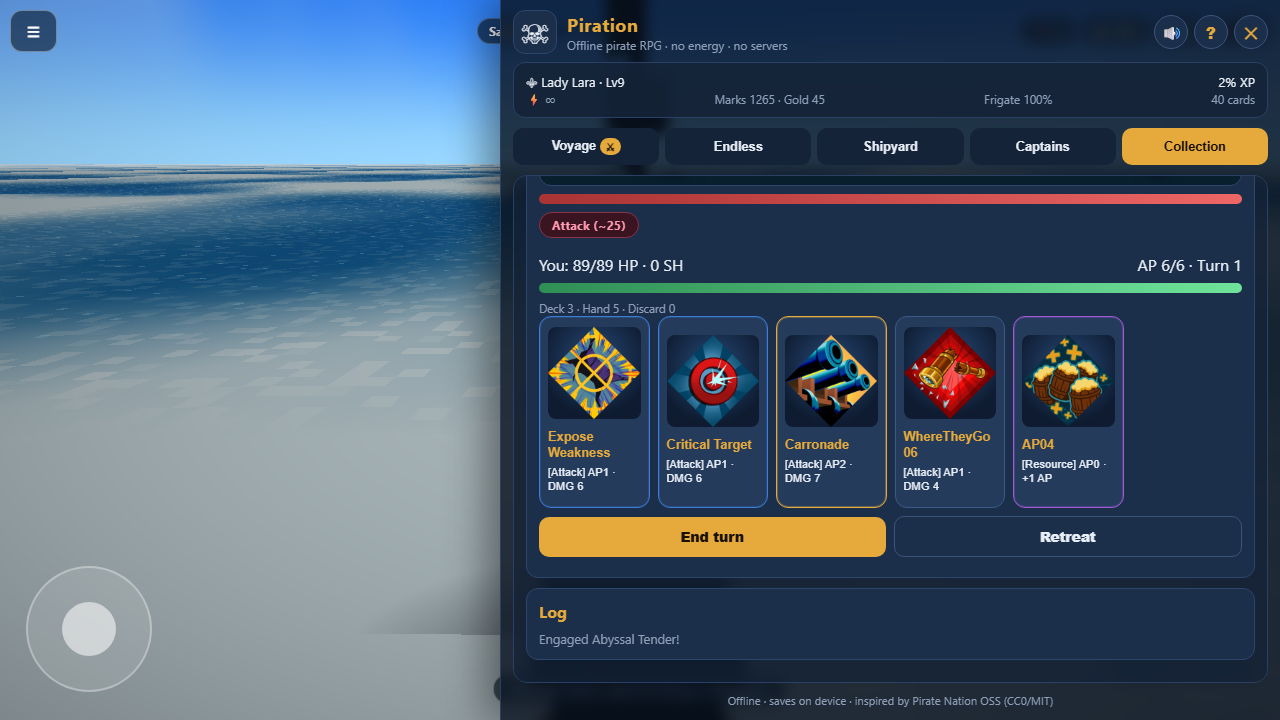
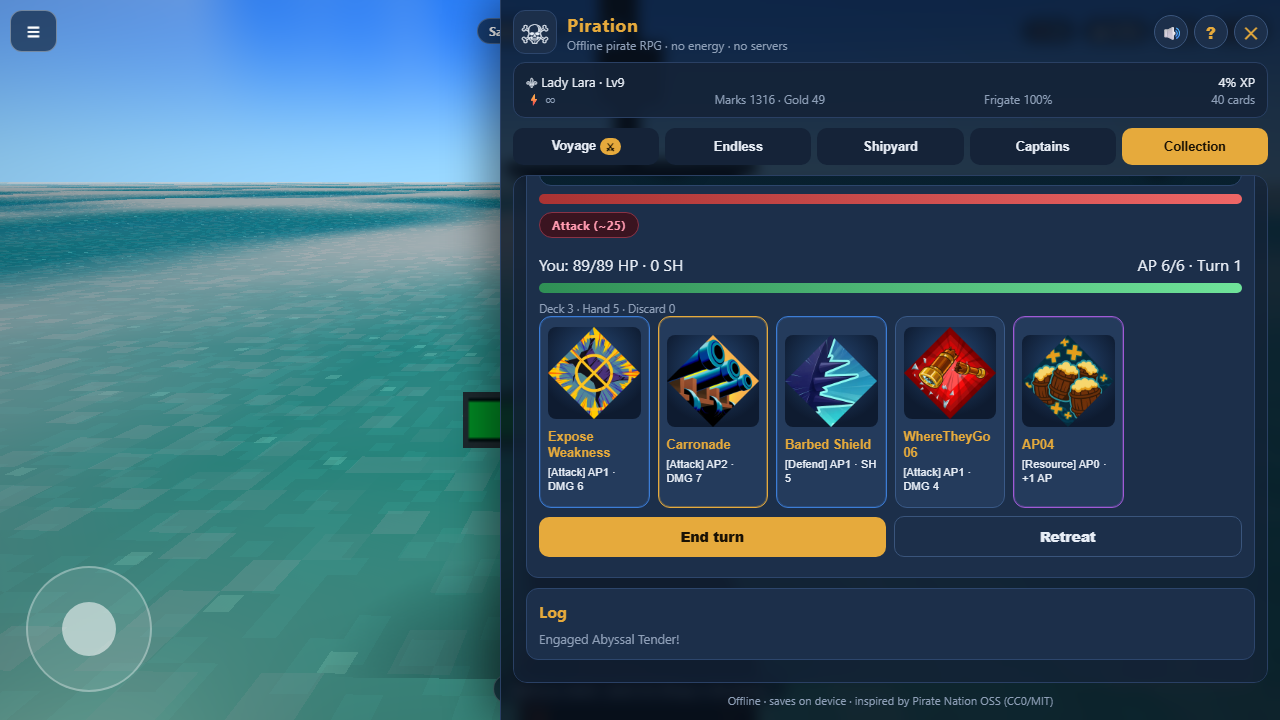
Immersion pass 3: lagoon ocean depth, storm horizon, battle telegraphs, beach palms
- Ocean now shades from turquoise lagoons near islands to deep open sea,
  with moving caustic shimmer and a stronger sun-glitter path
- Distant storm cell on the horizon: dark cloud cluster with random
  lightning flashes for a living sky
- Battle: enemy telegraphs with a red ring before attacking (blue when
  bracing), in-world HP bars above both ships
- Beach palms (rotated-box instanced trees) line the shorelines
- Saturation up to 0.61; full verify-all CLEAN; sim 20.3h

diff --git a/android/www/js/world3d.js b/android/www/js/world3d.js
@@ -159,6 +159,7 @@ export class PirationWorld {
     this.battle = null;
     this.projectiles = [];
     this.fxSprites = [];
+    this.fxCount = 0;
     this.shake = { t: 0, dur: 0, amp: 0 };
     this.fxTex = makeRadialTexture("#ffffff", "#ffffff00");
     this.ringTex = makeRingTexture();
@@ -212,6 +213,7 @@ export class PirationWorld {
     this.buildAIShips();
     this.buildShadows();
     this.buildGulls();
+    this.buildStorm();
     this.bindInput();
     this.resize();
     window.addEventListener("resize", () => this.resize());
@@ -297,6 +299,7 @@ export class PirationWorld {
     if (!active) {
       if (this.battle) {
         this.scene.remove(this.battle.mesh);
+        if (this.battle.playerBar) this.ship.remove(this.battle.playerBar);
         if (this.battleShadow) this.scene.remove(this.battleShadow);
         this.battle = null;
         this.battleShadow = null;
@@ -325,6 +328,31 @@ export class PirationWorld {
     this.scene.add(shadow);
     this.battle = { mesh, basePos: pos.clone(), t: 0, shake: { t: 0, dur: 0, amp: 0 } };
     this.battleShadow = shadow;
+    const barMat = (pct, color) =>
+      new THREE.SpriteMaterial({ map: makeBarTexture(pct, color), transparent: true, depthWrite: false });
+    const enemyBar = new THREE.Sprite(barMat(1, "#ff5a5a"));
+    enemyBar.scale.set(3.4, 0.55, 1);
+    enemyBar.position.set(0, 4.6, 0);
+    this.battle.mesh.add(enemyBar);
+    this.battle.enemyBar = enemyBar;
+    const playerBar = new THREE.Sprite(barMat(1, "#4fbf78"));
+    playerBar.scale.set(3.4, 0.55, 1);
+    playerBar.position.set(0, 3.2, 0);
+    this.ship.add(playerBar);
+    this.battle.playerBar = playerBar;
+  }
+
+  setBattleHp(playerPct, enemyPct) {
+    if (!this.battle) return;
+    const b = this.battle;
+    if (Math.abs((b.ePct ?? 1) - enemyPct) > 0.02) {
+      b.ePct = enemyPct;
+      if (b.enemyBar) b.enemyBar.material.map = makeBarTexture(enemyPct, "#ff5a5a");
+    }
+    if (Math.abs((b.pPct ?? 1) - playerPct) > 0.02) {
+      b.pPct = playerPct;
+      if (b.playerBar) b.playerBar.material.map = makeBarTexture(playerPct, "#4fbf78");
+    }
   }
 
   fxCard(kind, payload) {
@@ -363,6 +391,9 @@ export class PirationWorld {
       this.spawnFxSprite(this.ringTex, this.ship.position.clone().setY(1.2), 2.2, 0.5);
     } else if (kind === "enemyShield") {
       this.spawnFxSprite(this.ringTex, this.battle.mesh.position.clone().setY(2.0), 3.0, 0.55);
+    } else if (kind === "enemyTelegraph") {
+      const r = makeRingTexture("rgba(255, 110, 90, 0.95)");
+      this.spawnFxSprite(r, this.battle.mesh.position.clone().setY(2.0), 3.2, 0.7);
     } else if (kind === "heal") {
       this.spawnFxSprite(this.sparkTex, this.ship.position.clone().setY(1.6), 1.6, 0.5);
     }
@@ -393,6 +424,7 @@ export class PirationWorld {
   }
 
   spawnFxSprite(tex, pos, size, life, additive = false, vel = null) {
+    this.fxCount += 1;
     const mat = new THREE.SpriteMaterial({
       map: tex,
       transparent: true,
@@ -500,8 +532,9 @@ export class PirationWorld {
       side: THREE.DoubleSide,
       uniforms: {
         uTime: { value: 0 },
-        uDeep: { value: new THREE.Color(0x0b6fa8) },
-        uShallow: { value: new THREE.Color(0x26c9bd) },
+        uOpen: { value: new THREE.Color(0x0a4f86) },
+        uLagoon: { value: new THREE.Color(0x2ed0bf) },
+        uShallow: { value: new THREE.Color(0x35d9c8) },
         uSky: { value: new THREE.Color(0xa8d8ff) },
         uSun: { value: new THREE.Vector3(0.55, 0.62, 0.36).normalize() },
         uIslands: { value: islandUniforms },
@@ -511,7 +544,7 @@ export class PirationWorld {
       },
       vertexShader: `
         uniform float uTime; uniform vec4 uIslands[8];
-        varying vec3 vWorld; varying vec3 vNormal; varying float vFoam;
+        varying vec3 vWorld; varying vec3 vNormal; varying float vFoam; varying float vShore;
         float wave(vec2 p, float t){
           return 0.42*sin(dot(vec2(0.9,0.4), p)*0.055 + t*1.3)
                + 0.30*sin(dot(vec2(-0.6,0.8), p)*0.075 + t*1.7)
@@ -551,23 +584,30 @@ export class PirationWorld {
           rMin = min(rMin, uIslands[4].z); rMin = min(rMin, uIslands[5].z);
           rMin = min(rMin, uIslands[6].z); rMin = min(rMin, uIslands[7].z);
           vFoam = smoothstep(rMin + 8.5, rMin + 2.0, shore) * smoothstep(0.35, 1.4, w + 0.9);
+          vShore = shore;
           gl_Position = projectionMatrix * viewMatrix * wp;
         }`,
       fragmentShader: `
-        uniform vec3 uDeep; uniform vec3 uShallow; uniform vec3 uSky; uniform vec3 uSun; uniform float uTime;
+        uniform vec3 uOpen; uniform vec3 uLagoon; uniform vec3 uShallow; uniform vec3 uSky; uniform vec3 uSun; uniform float uTime;
         uniform sampler2D uShadowMap; uniform mat4 uShadowMatrix; uniform float uShadowBias;
-        varying vec3 vWorld; varying vec3 vNormal; varying float vFoam;
+        varying vec3 vWorld; varying vec3 vNormal; varying float vFoam; varying float vShore;
         float hash(vec2 p){ return fract(sin(dot(p, vec2(12.9898, 78.233))) * 43758.5453); }
         void main(){
           vec3 n = normalize(vNormal);
           vec3 view = normalize(cameraPosition - vWorld);
           float fres = pow(1.0 - max(dot(view, n), 0.0), 3.0);
-          vec3 base = mix(uDeep, uShallow, clamp(vWorld.y * 0.18 + 0.35, 0.0, 1.0));
+          // lagoon near islands -> deep open sea
+          float depthF = smoothstep(16.0, 280.0, vShore);
+          vec3 base = mix(uLagoon, uOpen, depthF);
+          base = mix(base, uShallow, clamp(vWorld.y * 0.14 + 0.2, 0.0, 1.0) * (1.0 - depthF * 0.6));
           vec3 c = mix(base, uSky, fres * 0.55);
-          // sun glitter
-          float spec = pow(max(dot(reflect(-view, n), uSun), 0.0), 70.0);
+          // caustic shimmer
+          float caustic = step(0.68, hash(floor(vWorld.xz * 2.4 + vec2(uTime * 0.22, -uTime * 0.14))));
+          c += vec3(0.12, 0.32, 0.3) * caustic * 0.16 * (1.0 - depthF * 0.6);
+          // sun glitter path
+          float spec = pow(max(dot(reflect(-view, n), uSun), 0.0), 60.0);
           float sparkle = step(0.985, hash(floor(vWorld.xz * 3.0) + floor(uTime * 6.0)));
-          c += vec3(1.0, 0.96, 0.82) * (spec * 0.85 + sparkle * 0.18);
+          c += vec3(1.0, 0.96, 0.82) * (spec * 1.1 + sparkle * 0.18);
           // foam
           float waveFoam = smoothstep(0.62, 0.86, hash(floor(vWorld.xz * 1.4)));
           float foam = clamp(vFoam + waveFoam * 0.12, 0.0, 1.0);
@@ -824,6 +864,37 @@ export class PirationWorld {
       this.scene.add(rocks);
     }
 
+    // beach palms (decorative instanced layer)
+    const palmItems = [];
+    const palmCount = def.id === "hub" ? 3 : 4 + Math.floor(rng() * 3);
+    for (let i = 0; i < palmCount; i++) {
+      tryPlace((x, z, h) => {
+        if (h < 1.5) {
+          palmItems.push({
+            x: def.pos[0] + x,
+            z: def.pos[1] + z,
+            h,
+            rot: rng() * Math.PI * 2,
+            s: 0.9 + rng() * 0.5,
+          });
+        }
+      }, 80);
+    }
+    if (palmItems.length) {
+      const palmGeo = makeMergedBoxes(PALM_BOXES);
+      const palms = new THREE.InstancedMesh(palmGeo, vcMat, palmItems.length);
+      for (let i = 0; i < palmItems.length; i++) {
+        dummy.position.set(palmItems[i].x, palmItems[i].h + 0.05, palmItems[i].z);
+        dummy.rotation.set(0, palmItems[i].rot, 0);
+        dummy.scale.setScalar(palmItems[i].s);
+        dummy.updateMatrix();
+        palms.setMatrixAt(i, dummy.matrix);
+      }
+      palms.instanceMatrix.needsUpdate = true;
+      palms.castShadow = true;
+      this.scene.add(palms);
+    }
+
     // hub buildings + merged dock planks
     if (def.id === "hub") {
       const sw = this.models.prop_shipwright.clone(true);
@@ -939,6 +1010,62 @@ export class PirationWorld {
       };
       this.scene.add(s);
       this.gulls.push(s);
+    }
+  }
+
+  buildStorm() {
+    const cloudTex = makeStormCloudTexture();
+    const flashTex = makeRadialTexture("#ffffff", "#ffffff00");
+    this.storm = { clouds: [], flash: null, t: 2 + Math.random() * 3 };
+    const a = 2.35;
+    const cx = Math.cos(a) * 660;
+    const cz = Math.sin(a) * 660;
+    for (let i = 0; i < 7; i++) {
+      const s = new THREE.Sprite(
+        new THREE.SpriteMaterial({ map: cloudTex, transparent: true, depthWrite: false, opacity: 0.72 }),
+      );
+      const ox = (Math.random() - 0.5) * 190;
+      const oz = (Math.random() - 0.5) * 190;
+      s.position.set(cx + ox, 105 + Math.random() * 90, cz + oz);
+      const sc = 140 + Math.random() * 100;
+      s.scale.set(sc, sc * 0.55, 1);
+      s.userData = { speed: 0.8 + Math.random() };
+      this.scene.add(s);
+      this.storm.clouds.push(s);
+    }
+    const fl = new THREE.Sprite(
+      new THREE.SpriteMaterial({
+        map: flashTex,
+        transparent: true,
+        blending: THREE.AdditiveBlending,
+        depthWrite: false,
+        opacity: 0,
+      }),
+    );
+    fl.position.set(cx, 175, cz);
+    fl.scale.set(300, 300, 1);
+    this.scene.add(fl);
+    this.storm.flash = fl;
+  }
+
+  updateStorm(dt) {
+    if (!this.storm) return;
+    const st = this.storm;
+    for (const s of st.clouds) {
+      s.position.x += s.userData.speed * dt * 0.6;
+    }
+    st.t -= dt;
+    if (st.t <= 0) {
+      st.t = 3 + Math.random() * 5;
+      st.flashT = 0.16;
+    }
+    if (st.flashT > 0) {
+      st.flashT -= dt;
+      const k = Math.max(0, st.flashT / 0.16);
+      st.flash.material.opacity = k;
+      st.flash.scale.setScalar(300 + (1 - k) * 220);
+    } else if (st.flash.material.opacity > 0) {
+      st.flash.material.opacity = 0;
     }
   }
 
@@ -1220,6 +1347,7 @@ export class PirationWorld {
     this.updateSea(dt);
     this.updateClouds(dt);
     this.updateGulls(dt);
+    this.updateStorm(dt);
     this.updateAIShips(dt);
     this.updateNodes();
     this.updateAmbush(dt);
@@ -1760,22 +1888,55 @@ function makeBirdTexture() {
   return tex;
 }
 
-function makeRingTexture() {
+function makeStormCloudTexture() {
+  const c = document.createElement("canvas");
+  c.width = 128;
+  c.height = 96;
+  const ctx = c.getContext("2d");
+  const g = ctx.createRadialGradient(64, 48, 8, 64, 48, 60);
+  g.addColorStop(0, "rgba(38, 48, 66, 0.9)");
+  g.addColorStop(0.55, "rgba(52, 62, 82, 0.62)");
+  g.addColorStop(1, "rgba(60, 72, 92, 0)");
+  ctx.fillStyle = g;
+  ctx.fillRect(0, 0, 128, 96);
+  const tex = new THREE.CanvasTexture(c);
+  tex.colorSpace = THREE.SRGBColorSpace;
+  return tex;
+}
+
+function makeRingTexture(color = "rgba(180, 235, 255, 0.9)") {
   const c = document.createElement("canvas");
   c.width = 128;
   c.height = 128;
   const ctx = c.getContext("2d");
   ctx.clearRect(0, 0, 128, 128);
-  ctx.strokeStyle = "rgba(180, 235, 255, 0.9)";
+  ctx.strokeStyle = color;
   ctx.lineWidth = 9;
   ctx.beginPath();
   ctx.arc(64, 64, 40, 0, Math.PI * 2);
   ctx.stroke();
-  ctx.strokeStyle = "rgba(180, 235, 255, 0.35)";
+  ctx.strokeStyle = color.replace("0.9", "0.35");
   ctx.lineWidth = 4;
   ctx.beginPath();
   ctx.arc(64, 64, 52, 0, Math.PI * 2);
   ctx.stroke();
+  const tex = new THREE.CanvasTexture(c);
+  tex.colorSpace = THREE.SRGBColorSpace;
+  return tex;
+}
+
+function makeBarTexture(pct, color) {
+  const c = document.createElement("canvas");
+  c.width = 128;
+  c.height = 18;
+  const ctx = c.getContext("2d");
+  ctx.fillStyle = "rgba(8, 14, 24, 0.85)";
+  ctx.fillRect(0, 0, 128, 18);
+  ctx.fillStyle = color;
+  ctx.fillRect(2, 3, Math.max(2, 124 * Math.max(0, Math.min(1, pct))), 12);
+  ctx.strokeStyle = "rgba(255,255,255,0.35)";
+  ctx.lineWidth = 2;
+  ctx.strokeRect(1, 1, 126, 16);
   const tex = new THREE.CanvasTexture(c);
   tex.colorSpace = THREE.SRGBColorSpace;
   return tex;
@@ -1837,6 +1998,16 @@ const ROCK_BOXES = [
   { s: [0.8, 0.5, 0.8], p: [-0.6, 0.35, -0.5], c: [0.38, 0.4, 0.46] },
 ];
 
+const PALM_BOXES = [
+  { s: [0.34, 1.6, 0.34], p: [0, 0.8, 0], c: [0.55, 0.42, 0.3], r: [0.08, 0, 0.05] },
+  { s: [0.3, 1.5, 0.3], p: [0.22, 2.15, 0.08], c: [0.52, 0.4, 0.28], r: [0.2, 0, 0.09] },
+  { s: [0.26, 1.3, 0.26], p: [0.48, 3.4, 0.18], c: [0.5, 0.38, 0.26], r: [0.32, 0, 0.12] },
+  { s: [2.5, 0.22, 1.0], p: [0.8, 4.0, 0.2], c: [0.2, 0.6, 0.3], r: [-0.5, 0, 0.15] },
+  { s: [2.4, 0.22, 1.0], p: [-0.6, 4.0, 0.3], c: [0.22, 0.58, 0.3], r: [0.45, 0, -0.1] },
+  { s: [2.3, 0.22, 1.0], p: [0.2, 4.1, 1.0], c: [0.24, 0.56, 0.3], r: [0.1, 0.5, 0.2] },
+  { s: [2.3, 0.22, 1.0], p: [0.1, 4.0, -0.8], c: [0.22, 0.6, 0.3], r: [0.1, -0.5, -0.2] },
+];
+
 function makeMergedBoxes(parts) {
   const pos = [];
   const col = [];
@@ -1845,6 +2016,11 @@ function makeMergedBoxes(parts) {
   for (const p of parts) {
     const g = new THREE.BoxGeometry(p.s[0], p.s[1], p.s[2]);
     g.translate(p.p[0], p.p[1], p.p[2]);
+    if (p.r) {
+      g.rotateX(p.r[0]);
+      g.rotateY(p.r[1] || 0);
+      g.rotateZ(p.r[2] || 0);
+    }
     const gp = g.attributes.position.array;
     for (let i = 0; i < gp.length / 3; i++) {
       pos.push(gp[i * 3], gp[i * 3 + 1], gp[i * 3 + 2]);

diff --git a/android/www/js/ui.js b/android/www/js/ui.js
@@ -697,10 +697,12 @@ function renderCombat(back) {
   bind("#endTurn", () => {
     sfx("hit");
     const wasBrace = state.combat?.enemy?.intent === "brace";
+    const wasAttack = state.combat?.enemy?.intent === "attack" || state.combat?.enemy?.intent === "charge";
     const enemyDmg = state.combat?.enemy?.dmg || 0;
-    core.endTurn(state, CARDS, CARDS.game);
     if (wasBrace) world?.fxCard("enemyShield");
-    else world?.fxCard("enemyAttack", { dmg: enemyDmg });
+    else if (wasAttack) world?.fxCard("enemyTelegraph");
+    core.endTurn(state, CARDS, CARDS.game);
+    if (!wasBrace) world?.fxCard("enemyAttack", { dmg: enemyDmg });
     save();
     render();
   });
@@ -748,6 +750,7 @@ function renderCombat(back) {
     save();
     render();
   });
+  world?.setBattleHp(c.playerHp / c.playerMaxHp, c.enemy.hp / c.enemy.maxHp);
 }
 
 // ---------- endless ----------
